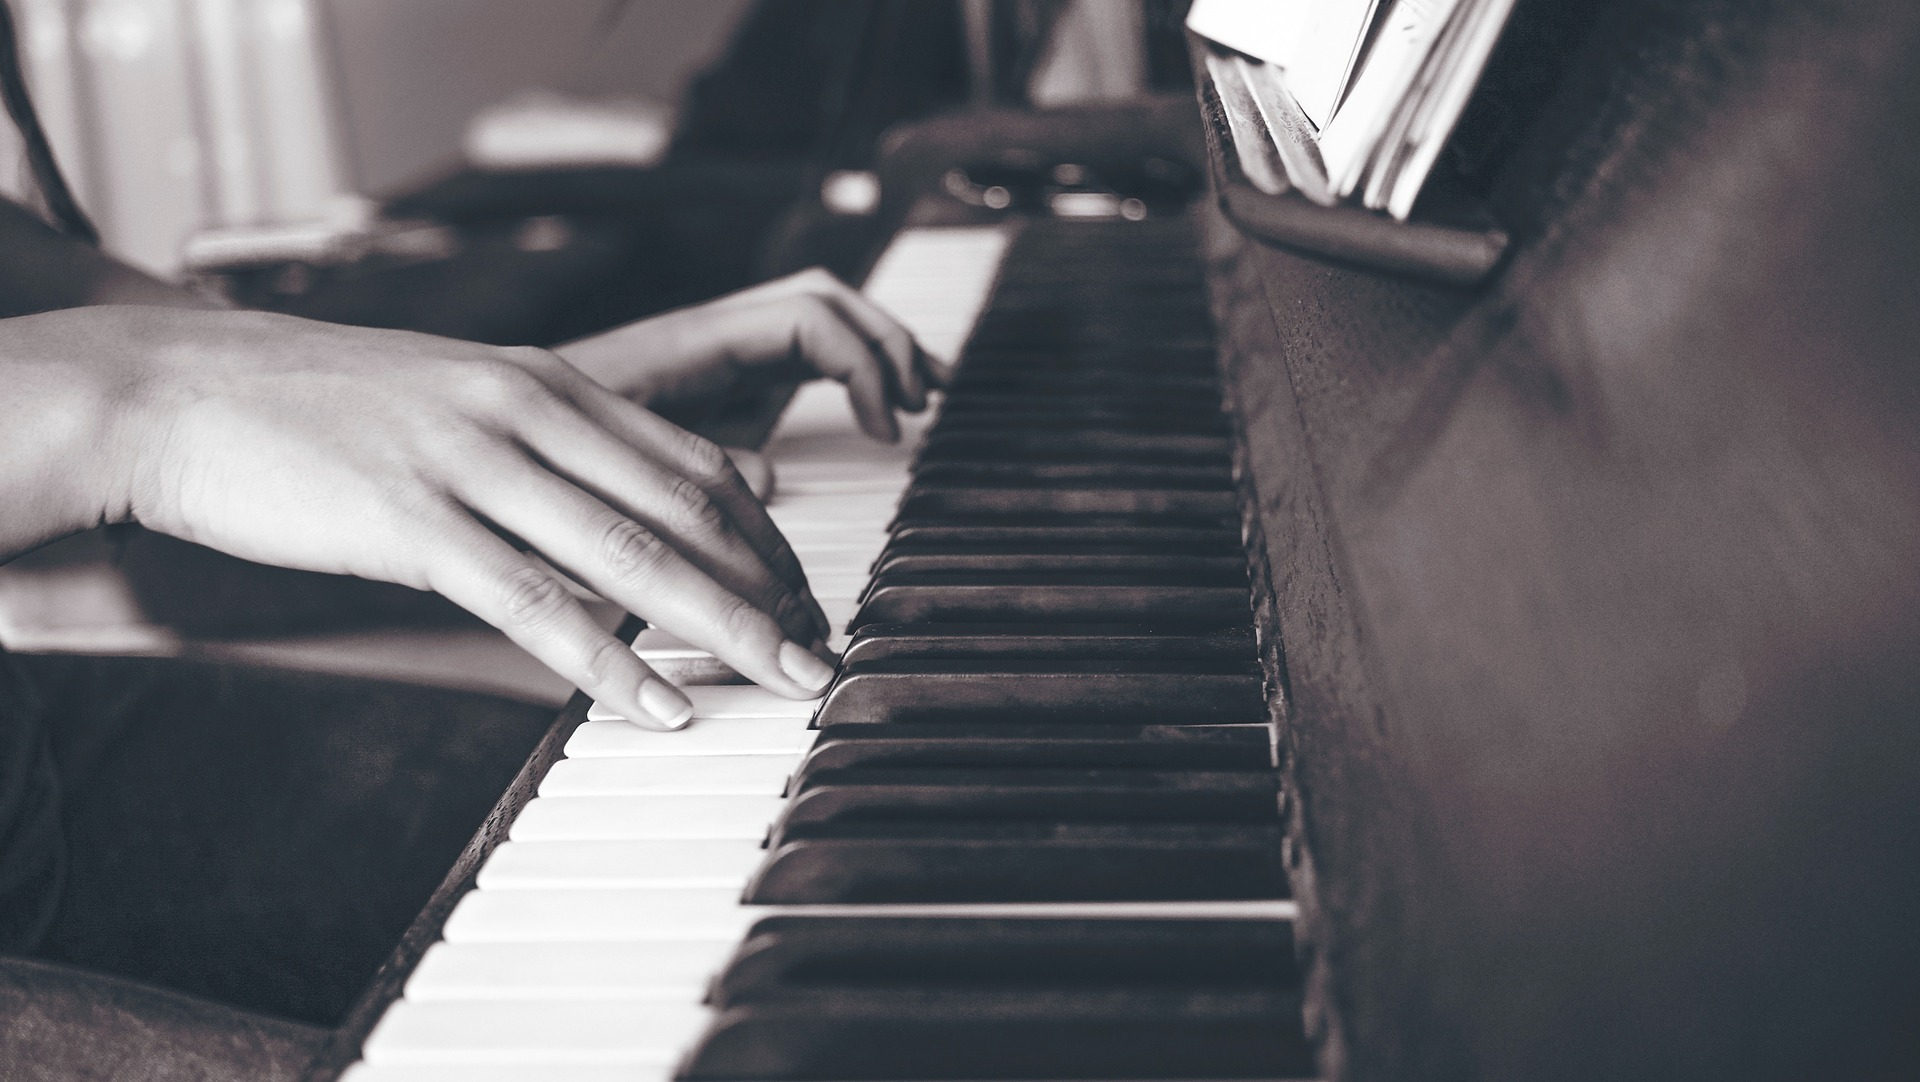
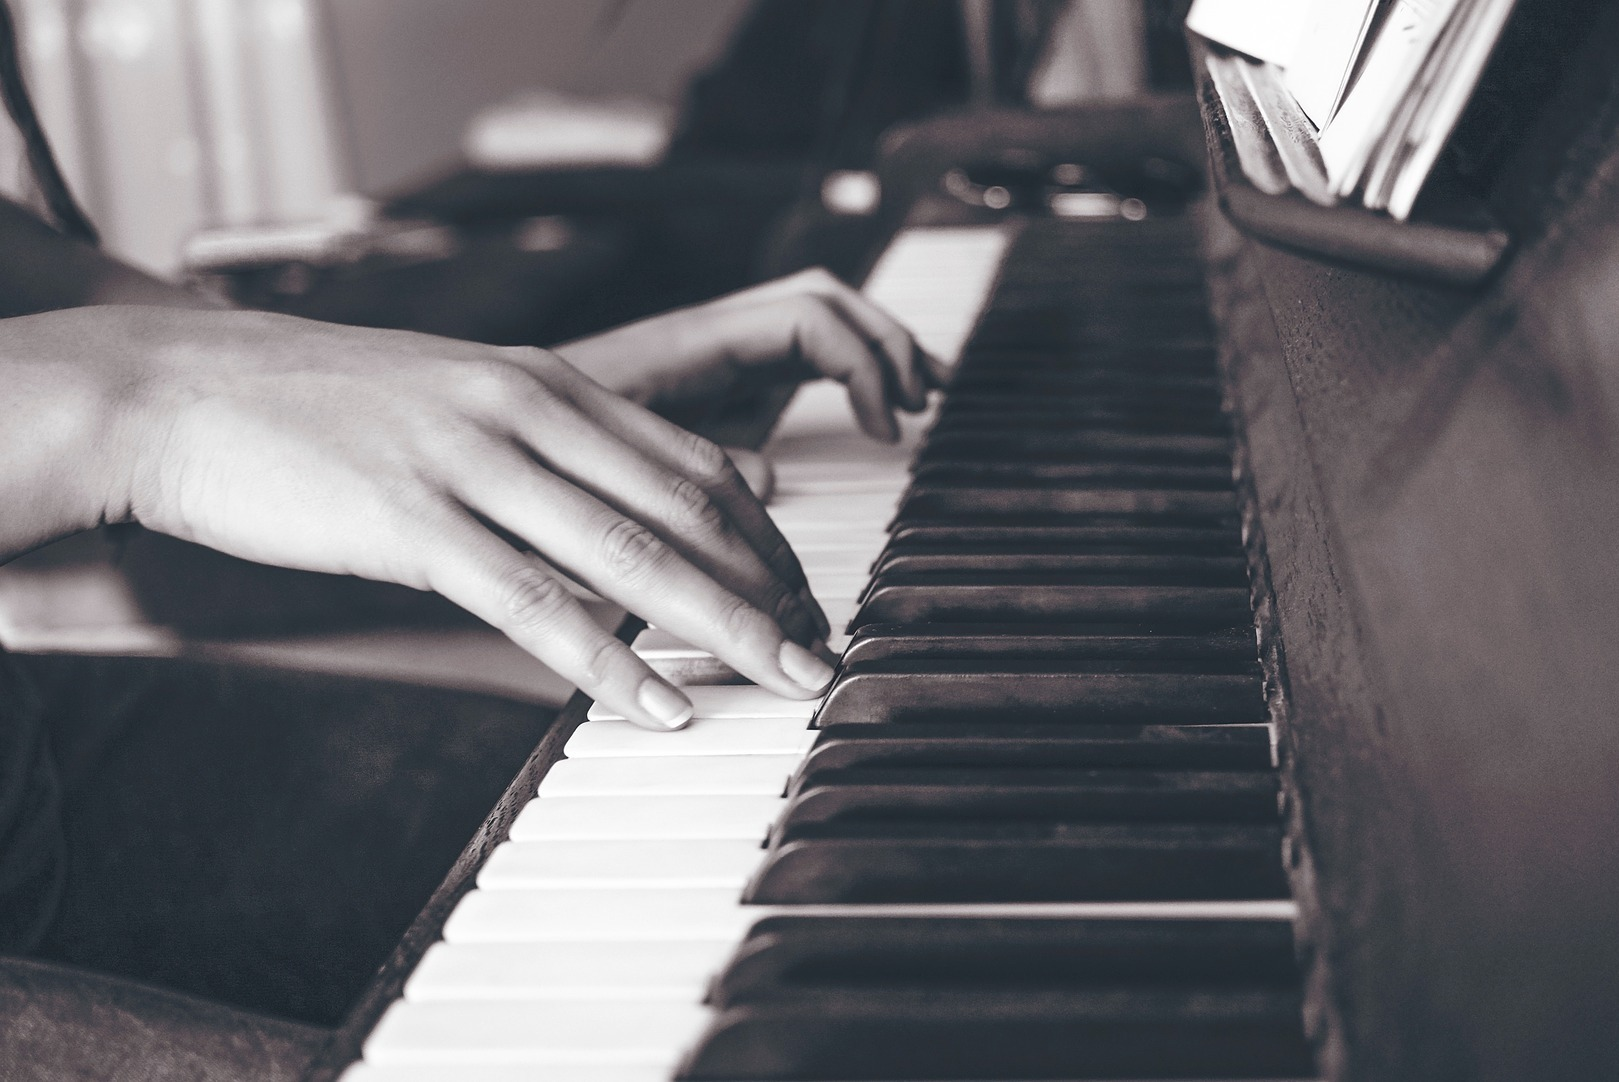
Fix background style

diff --git a/src/App.css b/src/App.css
@@ -41,7 +41,7 @@
 
 .App::after {
   content: "";
-  background: url("./piano-2592963_1920.jpg") no-repeat;
+  background: url("./piano-2592963_1920.jpg") no-repeat center center;
   background-color: rgb(79, 76, 80);
   opacity: 0.5;
   top: 0;
@@ -50,8 +50,11 @@
   right: 0;
   position: absolute;
   z-index: -1;
-  background-size: 130vw;
   background-attachment: fixed;
+  -webkit-background-size: cover;
+  -moz-background-size: cover;
+  -o-background-size: cover;
+  background-size: cover;
 }
 
 #root {
@@ -67,17 +70,11 @@
     position: fixed;
     left: 0;
     top: 0;
-    /* width: 100%; */
-    /* height: 100%; */
-    z-index: -10;
     background: url("./piano-2592963_1920.jpg") no-repeat center center;
     -webkit-background-size: cover;
     -moz-background-size: cover;
     -o-background-size: cover;
     background-size: cover;
-    /* left: rem; */
-    /* background-attachment: fixed; */
-    background-size: 300vw;
   }
 }
 
